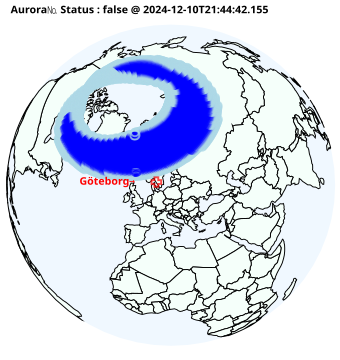
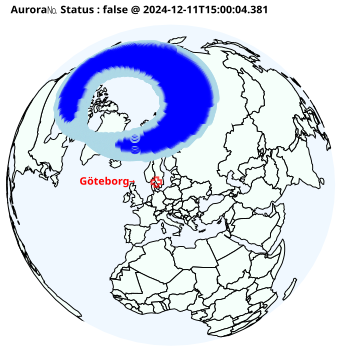
20241211150017 added aur.html

Changed region(s): [[0.1471, 0.0917, 0.6765, 0.5194], [0.5588, 0.0, 0.7941, 0.0611]]

diff --git a/aur.html b/aur.html
@@ -7,6 +7,6 @@
 <body>
     <h1>Aurora Watch</h1>
     <img src="a.png" alt="Aurora Image" style="width:100%;max-width:600px;">
-    <p>Aurora Level 🌌= (0.5) was observed. (2024-12-10T21:44:42.155)</p>
+    <p>Aurora Level 🌌= (0.0) was observed. (2024-12-11T15:00:04.381)</p>
 </body>
 </html>
